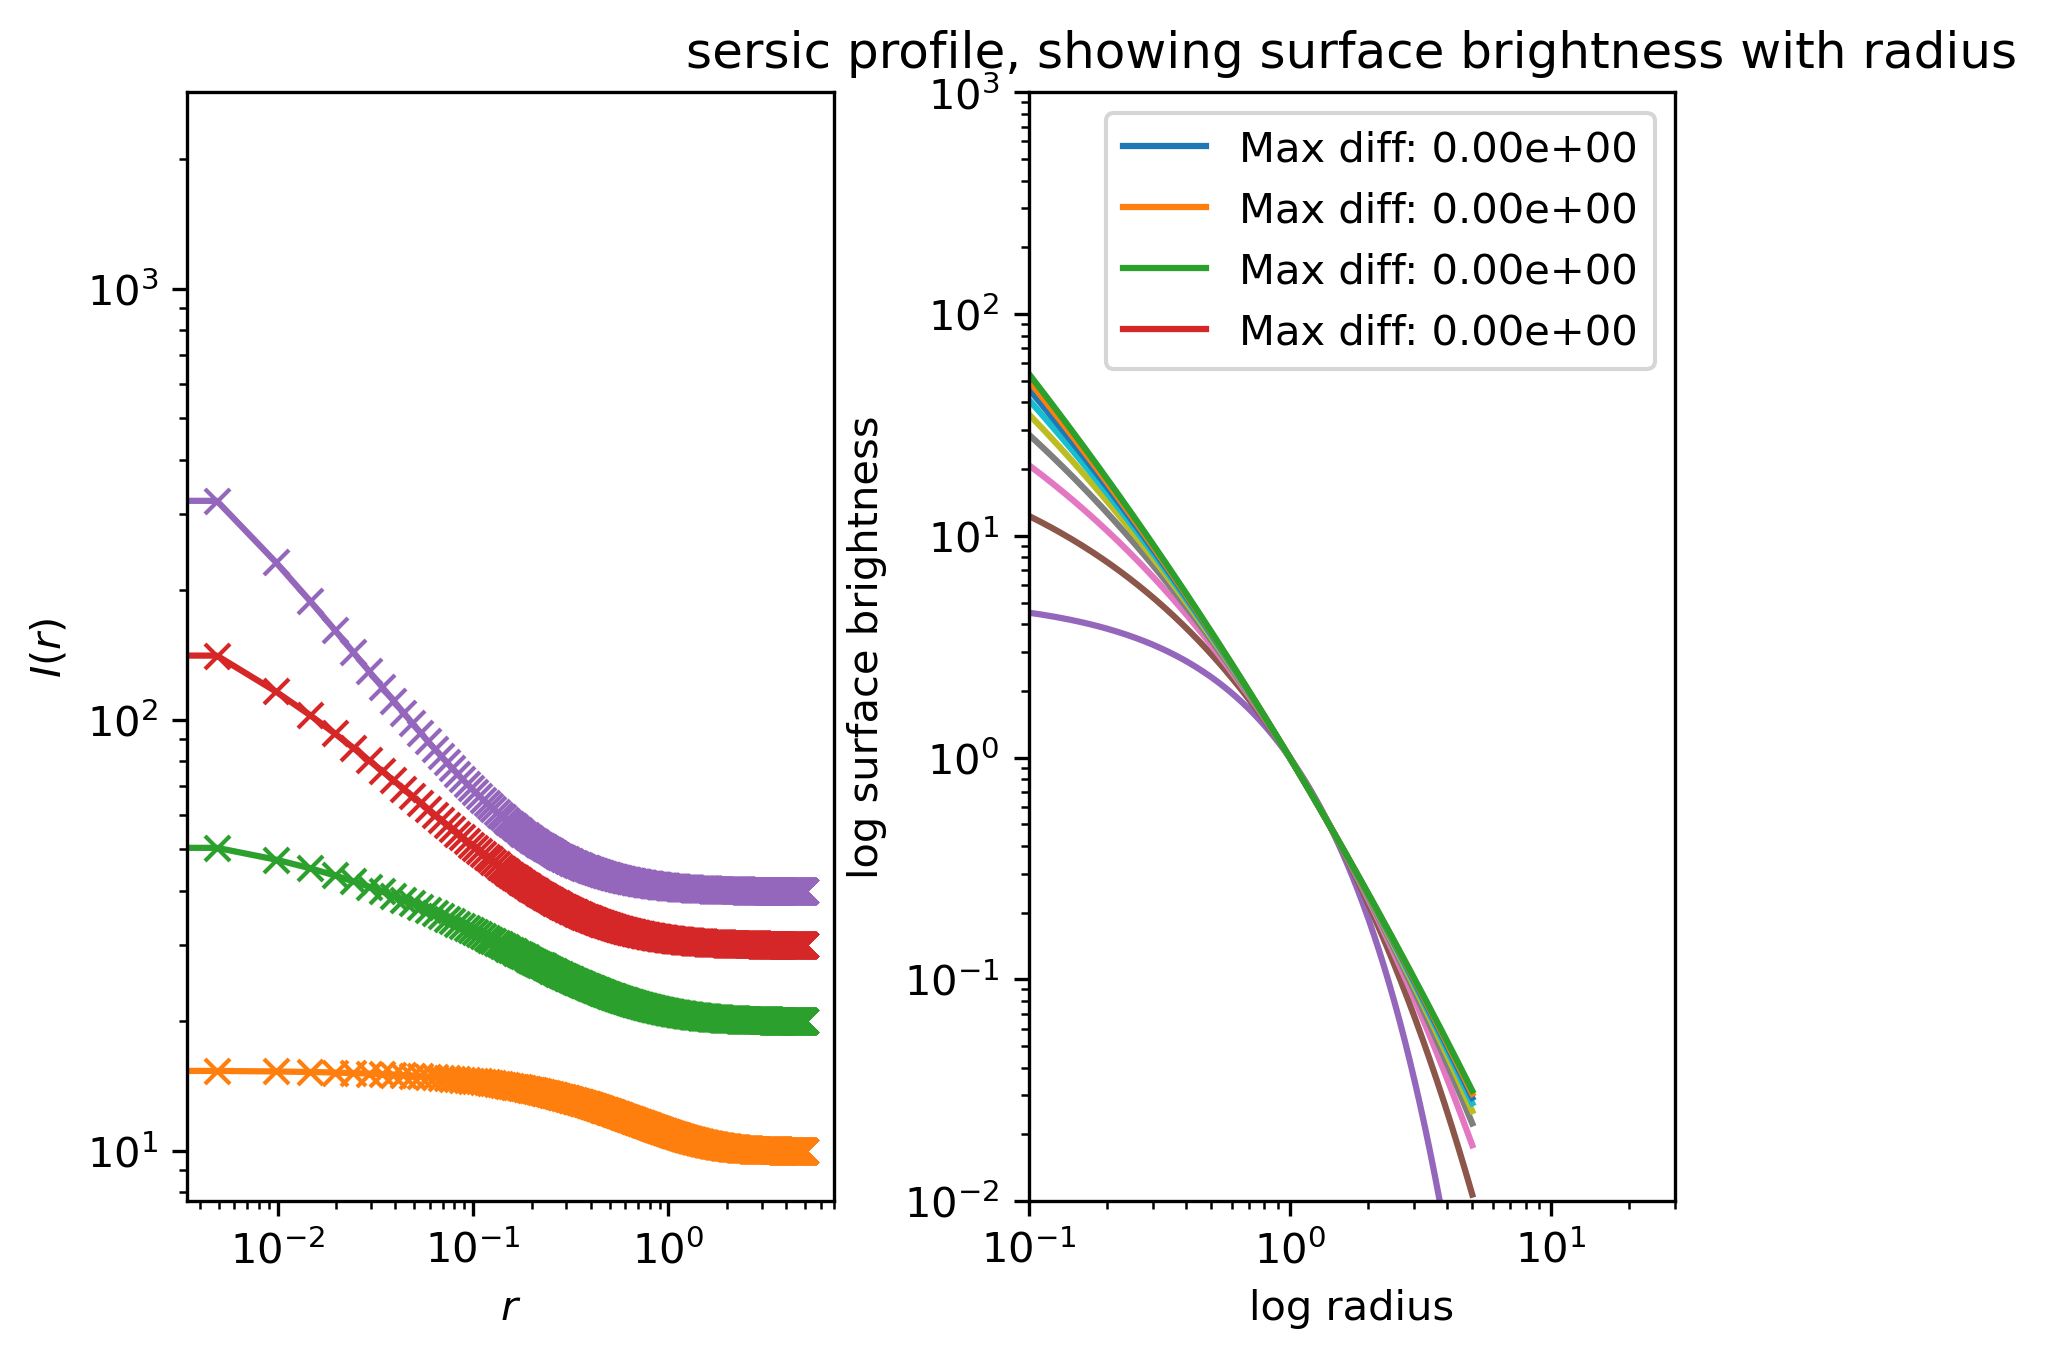
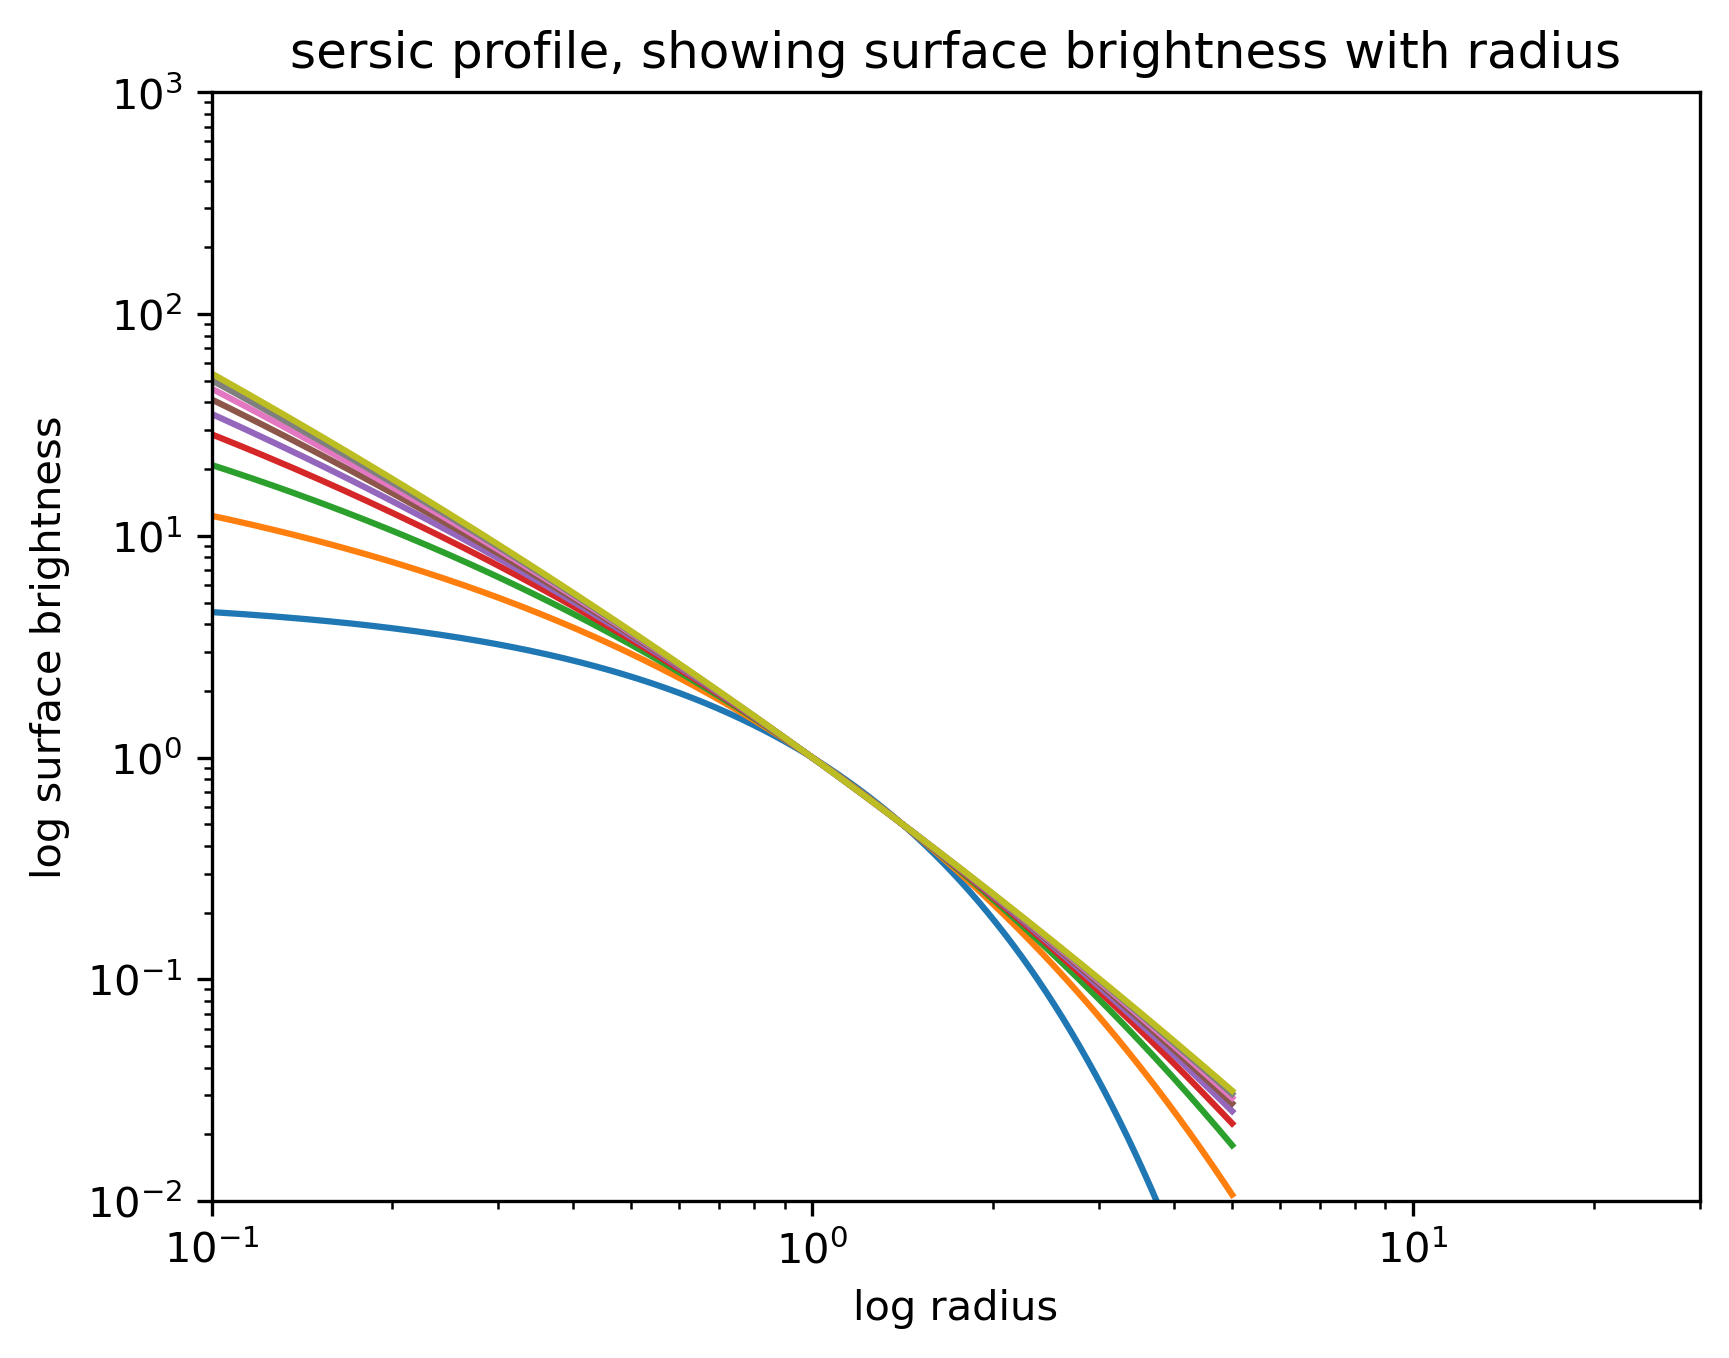
separating sersic function

diff --git a/sersic_plot.py b/sersic_plot.py
@@ -2,6 +2,7 @@ import numpy as np
 from astropy.modeling.models import Sersic1D
 import matplotlib.pyplot as plt
 from scipy.special import gammaincinv
+from sersic_func import sersic
 print("Hello World")
 #This is the inbuilt function based from astropy
 
@@ -27,21 +28,10 @@ plt.title('Astropy: sersic profile, showing surface brightness with radius')
 plt.legend(loc = 'best')
 plt.savefig('./sersic_profile_function.png', dpi=300, bbox_inches='tight')
 
-#own made function
-
-def sersic(r, r0, n, A0):
-
-    # bn = 1.9992*n - 0.3271
-    # bn = 2*n - 1./3. + (4. / 405.*n) + (46./2551.*n*n) + (131. / 1148175*n*n*n) - (2194697. / 30690717750*n*n*n*n)
-    # I = A0*np.exp(-bn*((r/r0)**(1/n)-1))
-
-    I = A0 * np.exp(-gammaincinv(2 * n, 0.5) * ((r / r0) ** (1 / n) - 1) )
-
-    return I
-
 r = np.linspace(0, 5, 1024)
 r0 = 1
 A0 = 1
+## potting the difference plot ##
 
 plt.figure(1, figsize=(2*4.5, 3.75))
 for n in [1, 2, 3, 4]:
@@ -69,18 +59,19 @@ plt.subplots_adjust(wspace=0.3)
 plt.show()
 
 ###
+
 def I_R(Ie,R,Re,n):
     bn = 1.9992*n - 0.3271 #change to longer approx / or use b for n=4
     I = Ie*np.exp(-bn*((R/Re)**(1/n)-1))
     return I
 
 Ir = np.zeros((10,len(r)))
-
+plt.figure()
 for i in range(1,10):
-  Ir[i,:]= (I_R(1,r,1,i))
-  plt.plot(r,I_R(1,r,1,i))
-  plt.xscale('log')
-  plt.yscale('log')
+    Ir[i,:]= (sersic(r,1,i,1))
+    plt.plot(r,sersic(r,1,i,1))
+    plt.xscale('log')
+    plt.yscale('log')
 
 plt.xlabel('log radius')
 plt.ylabel('log surface brightness')
@@ -112,7 +103,8 @@ n_A = 1.80
 
 r_A = np.arange(0,9,0.01) #in Kpc
 plt.figure()
-Ir_M31 = I_R(Ie_A ,r_A ,R_A ,n_A)
+Ir_M31 = sersic(r_A ,R_A,n_A,Ie_A)
+Ir_M31 = sersic(r_A,R_A,n_A,Ie_A)
 plt.plot(r_A,Ir_M31)
 
 plt.xlabel('radius')
@@ -130,7 +122,7 @@ n_A = 1.80
 
 r_A = np.arange(0,9,0.01) #in Kpc
 
-Ir_M31_2 = I_R(Ie_A ,r_A ,R_A ,n_A)
+Ir_M31_2 = sersic(r_A ,R_A ,n_A,Ie_A)
 
 plt.plot(r_A,Ir_M31_2, label = '2 times RA')
 plt.legend(loc = 'best')
@@ -138,7 +130,7 @@ plt.legend(loc = 'best')
 plt.xlabel('radius')
 plt.ylabel('surface brightness')
 plt.title('Sersic Profile for M31_double_R_A')
-#plt.savefig('./sersic_profile_double.png', dpi=300, bbox_inches='tight')
+plt.savefig('./sersic_profile_double.png', dpi=300, bbox_inches='tight')
 
 #example for a galaxy four times as large as Andromeda
 
@@ -149,7 +141,7 @@ n_A = 1.80
 
 r_A = np.arange(0,9,0.01) #in Kpc
 #plt.figure()
-plt.plot(r_A,I_R(Ie_A ,r_A ,R_A ,n_A), label = '4 times RA')
+plt.plot(r_A,sersic(r_A ,R_A ,n_A,Ie_A), label = '4 times RA')
 plt.legend(loc = 'best')
 
 plt.xlabel('radius')
@@ -165,16 +157,17 @@ Re_A = 0.69 #Kpsc0.69
 Ie_A = 26.11
 n_A = 1.80
 
-Ir_n18 = I_R(Ie_A ,r_A ,R_A ,n_A)
-Ir_n5 = I_R(Ie_A ,r_A ,R_A ,5)
+Ir_n18 = sersic(r_A ,R_A ,n_A,Ie_A )
+Ir_n5 = sersic(r_A ,R_A ,5,Ie_A)
 
 r_A = np.arange(0,9,0.01) #in Kpc
+
 plt.figure()
-plt.plot(r_A,I_R(Ie_A ,r_A ,R_A ,n_A), label = 'Sersic index = 1.8')
-plt.plot(r_A,I_R(Ie_A ,r_A ,R_A ,2), label = 'Sersic index = 2')
-plt.plot(r_A,I_R(Ie_A ,r_A ,R_A ,5), label = 'Sersic index = 5')
-plt.plot(r_A,I_R(Ie_A ,r_A ,R_A ,7), label = 'Sersic index = 7')
-plt.plot(r_A,I_R(Ie_A ,r_A ,R_A ,9), label = 'Sersic index = 9')
+plt.plot(r_A,sersic(r_A ,R_A ,n_A,Ie_A), label = 'Sersic index = 1.8')
+plt.plot(r_A,sersic(r_A ,R_A ,2,Ie_A), label = 'Sersic index = 2')
+plt.plot(r_A,sersic(r_A ,R_A ,5,Ie_A), label = 'Sersic index = 5')
+plt.plot(r_A,sersic(r_A ,R_A ,7,Ie_A), label = 'Sersic index = 7')
+plt.plot(r_A,sersic(r_A ,R_A ,9,Ie_A), label = 'Sersic index = 9')
 
 plt.legend(loc = 'best')
 plt.yscale('log')
@@ -262,16 +255,6 @@ import matplotlib.pyplot as plt
 
 plt.close('all')
 
-def sersic(r, r0, n, A0):
-
-    # bn = 1.9992*n - 0.3271
-    # bn = 2*n - 1./3. + (4. / 405.*n) + (46./2551.*n*n) + (131. / 1148175*n*n*n) - (2194697. / 30690717750*n*n*n*n)
-    # I = A0*np.exp(-bn*((r/r0)**(1/n)-1))
-
-    I = A0 * np.exp(-gammaincinv(2 * n, 0.5) * ((r / r0) ** (1 / n) - 1) )
-
-    return I
-
 r = np.linspace(0, 5, 1024)
 r0 = 1
 A0 = 1
@@ -279,7 +262,7 @@ A0 = 1
 plt.figure(1, figsize=(2*4.5, 3.75))
 for n in [1, 2, 3, 4]:
 
-    sersic_ih = sersic(r, r0, n, A0)
+    sersic_ih = sersic(A0, r, r0, n)
     sersic_ast = Sersic1D(amplitude=A0, r_eff=r0, n=n)(r)
 
     plt.subplot(121)

diff --git a/baselines.py b/baselines.py
@@ -5,9 +5,107 @@ corrds = np.loadtxt('interferometer.csv', delimiter = ',', skiprows=1, usecols =
 long = corrds[:,0] * np.pi/180 #[rad]
 lat = corrds[:,1] * np.pi/180 #[rad]
 
+e_merlin = np.loadtxt('emerlin.csv', delimiter = ',', skiprows = 1)
+emerlin_xx = e_merlin[:,0]
+emerlin_yy = e_merlin[:,1]
+emerlin_zz = e_merlin[:,2]
+
 earth_rad = 6.3781*10**6 #[meters]
 
+bin = np.array([2.00,2.25,2.50,2.75,3.00,3.25,3.50,3.75,4.00,4.25,4.50,4.75,5.00,5.25,5.50,5.75]) #bins for the hisogram
+
 i = j = 0
+
+#----------------------E_merlin-------------------------
+
+def baseline (long,lat,height):
+    long_diff = np.zeros((len(long),len(long)))
+
+    for j in range(len(long)):
+        for i in range(len(long)):
+            long_diff[j,i] = long[j] - long[i]
+
+    lat_diff = np.zeros((len(long),len(long)))
+
+    for j in range(len(long)):
+        for i in range(len(long)):
+            lat_diff[j,i] = long[j] - long[i]
+
+    height_diff = np.zeros((len(long),len(long)))
+
+    for j in range(len(long)):
+        for i in range(len(long)):
+            height_diff[j,i] = long[j] - long[i]
+
+    r = np.sqrt((long_diff)**2 + (lat_diff)**2 + (height_diff)**2)
+
+    w_zeros = np.where(r!=0)
+
+    r0 = np.log10(r[w_zeros[0],w_zeros[1]])
+
+    return(r0)
+
+e_merlin_baselines = baseline(emerlin_xx,emerlin_yy,emerlin_zz)
+
+ang_emerlin = np.log10(206265*((1.4*10**9)/10**(e_merlin_baselines))) #[arcseconds]
+#plt.savefig('./baselines_E-merlin2.png', dpi=300, bbox_inches='tight')
+
+#----------------------------------VLA-----------------------------------
+vla_posn = np.array(
+    [
+        [-1351.5783, 15411.6866, -36.9220],  # from jvla-m27_eall.ms
+        [-125.0441, 1428.1956, -5.6652],
+        [-8677.1357, -5860.2272, 19.2474],
+        [6939.6252, -3239.1838, 42.7388],
+        [-602.7972, 6880.1589, -17.0686],
+        [-1654.8708, 18863.3822, -39.7787],
+        [15538.4036, -7262.1508, 70.9228],
+        [-401.3073, -270.5884, 2.2196],
+        [4732.4674, -2208.1463, 28.9390],
+        [-2642.5450, -1783.0279, 14.1914],
+        [-410.9167, 4691.5365, -13.2065],
+        [-1317.9043, -889.0530, 5.0181],
+        [438.6360, -204.4722, 0.4958],
+        [2888.9829, -1347.5757, 17.4316],
+        [-14209.9382, -9604.7272, 20.8076],
+        [-259.5562, 2963.4401, -8.5215],
+        [-17388.6486, -11758.7053, 18.6633],
+        [-6347.1614, -4285.2242, 11.9298],
+        [-824.4586, 9407.5130, -22.1973],
+        [12358.4512, -5773.1839, 46.3523],
+        [1440.8421, -671.9128, 2.9230],
+        [-4328.6309, -2921.5726, 15.4884],
+        [-11302.3862, -7636.1216, 19.0827],
+        [9487.4079, -4430.0736, 41.6457],
+        [-38.1019, 434.7553, -1.3541],
+        [-1074.4189, 12255.8562, -30.5254],
+    ]
+)
+
+vla_xx = vla_posn[:, 0]
+vla_yy = vla_posn[:, 1]
+vla_zz = vla_posn[:, 2]
+
+vla_baselines = baseline(vla_xx,vla_yy,vla_zz)
+ang_size = np.log10(206265*((1.4*10**9)/10**(bin))) #[arcseconds]
+
+#Define figure
+fig, ax1 = plt.subplots()
+bin = np.array([2.00,2.25,2.50,2.75,3.00,3.25,3.50,3.75,4.00,4.25,4.50,4.75,5.00,5.25,5.50,5.75])
+vla_freq = plt.hist(vla_baselines)
+#vla_freq = vla_freq[0]
+ax1.hist(vla_baselines, bins = bin, weights = np.sqrt(vla_freq))
+ax1.hist(e_merlin_baselines, bins = bin)
+plt.xlabel('Log10(baseline length [m])')
+ax2 = ax1.twiny()
+ax2.plot(ang_size,bin,'.', alpha = 0)
+plt.xlabel('Log10 angular size at 1.4GHz')
+plt.ylabel('Number of baselines')
+plt.title('Baslines of E-merlin and VLA')
+
+plt.savefig('./baselines_E-merlin_vla.png', dpi=300, bbox_inches='tight')
+
+#-------------------for my data------------------------
 
 long_diff = np.zeros((len(long),len(long)))
 

diff --git a/sersic_func.py b/sersic_func.py
@@ -1,0 +1,15 @@
+import numpy as np
+from astropy.modeling.models import Sersic1D
+from scipy.special import gammaincinv
+import matplotlib.pyplot as plt
+
+def sersic(r, r0, n, A0):
+
+    I = A0 * np.exp(-gammaincinv(2 * n, 0.5) * ((r / r0) ** (1 / n) - 1) )
+
+    return I
+
+def I_R(Ie,R,Re,n):
+    bn = 1.9992*n - 0.3271 #change to longer approx / or use b for n=4
+    I = Ie*np.exp(-bn*((R/Re)**(1/n)-1))
+    return I
